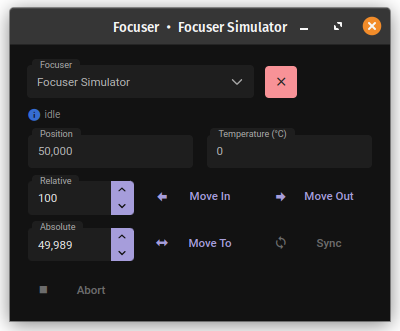
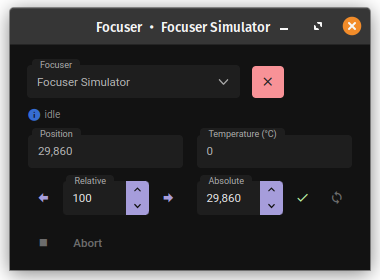
[desktop]: Change layout for Focuser and Filter Wheel

diff --git a/desktop/src/app/focuser/focuser.component.html b/desktop/src/app/focuser/focuser.component.html
@@ -32,34 +32,27 @@
                 <label>Temperature (°C)</label>
             </span>
         </div>
-        <div class="col-4">
+        <div class="col-6 flex align-items-center gap-1">
+            <p-button [disabled]="!canRelativeMove || moving" (onClick)="moveIn()" icon="mdi mdi-arrow-left-bold"
+                      styleClass="p-button-text" pTooltip="Move In" tooltipPosition="bottom" />
             <span class="p-float-label">
-                <p-inputNumber [disabled]="!canRelativeMove" [min]="0" [max]="maxPosition" [showButtons]="true" styleClass="border-0 max-w-full"
+                <p-inputNumber [disabled]="!canRelativeMove" [min]="0" [max]="maxPosition" [showButtons]="true" styleClass="border-0"
                                [(ngModel)]="stepsRelative" [allowEmpty]="false" locale="en" />
                 <label>Relative</label>
             </span>
+            <p-button [disabled]="!canRelativeMove || moving" (onClick)="moveOut()" icon="mdi mdi-arrow-right-bold"
+                      styleClass="p-button-text" pTooltip="Move Out" tooltipPosition="bottom" />
         </div>
-        <div class="col-4">
-            <p-button [disabled]="!canRelativeMove || moving" (onClick)="moveIn()" icon="mdi mdi-arrow-left-bold" label="Move In"
-                      styleClass="p-button-text w-full" />
-        </div>
-        <div class="col-4">
-            <p-button [disabled]="!canRelativeMove || moving" (onClick)="moveOut()" icon="mdi mdi-arrow-right-bold" label="Move Out"
-                      styleClass="p-button-text w-full" />
-        </div>
-        <div class="col-4">
+        <div class="col-6 flex align-items-center gap-1">
             <span class="p-float-label">
                 <p-inputNumber [disabled]="!canAbsoluteMove" [min]="0" [max]="maxPosition" [showButtons]="true" styleClass="border-0 max-w-full"
                                [(ngModel)]="stepsAbsolute" [allowEmpty]="false" locale="en" />
                 <label>Absolute</label>
             </span>
-        </div>
-        <div class="col-4">
-            <p-button [disabled]="!canAbsoluteMove || moving" (onClick)="moveTo()" icon="mdi mdi-arrow-left-right-bold" label="Move To"
-                      styleClass="p-button-text w-full" />
-        </div>
-        <div class="col-4">
-            <p-button [disabled]="!canSync || moving" (onClick)="syncTo()" icon="mdi mdi-sync" label="Sync" styleClass="p-button-text p-button-info w-full" />
+            <p-button [disabled]="!canAbsoluteMove || moving" (onClick)="moveTo()" icon="mdi mdi-check"
+                      styleClass="p-button-text p-button-success" pTooltip="Move To" tooltipPosition="bottom" />
+            <p-button [disabled]="!canSync || moving" (onClick)="syncTo()" icon="mdi mdi-sync"
+                      styleClass="p-button-text p-button-info" pTooltip="Sync" tooltipPosition="bottom" />
         </div>
         <div class="col-4">
             <p-button [disabled]="!canRelativeMove || !moving" icon="mdi mdi-stop" label="Abort" styleClass="p-button-text p-button-danger w-full" />

diff --git a/desktop/src/app/filterwheel/filterwheel.component.html b/desktop/src/app/filterwheel/filterwheel.component.html
@@ -19,13 +19,13 @@
         </div>
     </div>
     <div class="grid">
-        <div class="col-6">
+        <div class="col-3">
             <span class="p-float-label">
                 <p-inputNumber [readonly]="true" styleClass="border-0 w-full" [(ngModel)]="position" locale="en" />
                 <label>Position</label>
             </span>
         </div>
-        <div class="col-6">
+        <div class="col-9">
             <div class="p-inputgroup">
                 <span class="p-float-label">
                     <input pInputText [readonly]="true" class="border-0 w-full" [value]="filterNames[position - 1] || '-'" />
@@ -36,18 +36,18 @@
                 </span>
             </div>
         </div>
-        <div class="col-6">
+        <div class="col-7">
             <span class="p-float-label">
                 <p-dropdown [disabled]="!connected || filterNames.length === 0" [options]="filterNames" [(ngModel)]="filterToMove"
-                            (ngModelChange)="filterToMoveChanged()" styleClass="border-0" emptyMessage="No filter found" />
+                            (ngModelChange)="filterToMoveChanged()" styleClass="border-0" emptyMessage="No filter found" scrollHeight="120px" />
                 <label>Move To</label>
             </span>
         </div>
-        <div class="col-6 flex align-items-center justify-content-between gap-1">
+        <div class="col-5 flex align-items-center justify-content-between gap-1">
             <p-button [disabled]="!filterWheel || !connected || filterNames.length === 0 || moving || filterToMove === filterNames[position - 1]"
                       (onClick)="moveTo()" label="Move" icon="mdi mdi-arrow-right-bold" styleClass="p-button-text" />
             <p-button [disabled]="!filterWheel || !connected || moving || filterNames.length === 0" (onClick)="openFilterOptions()"
-                      icon="mdi mdi-cog" styleClass="p-button p-button-info p-button-text"
+                      icon="mdi mdi-tune-vertical-variant" styleClass="p-button-info p-button-text"
                       pTooltip="Options" tooltipPosition="bottom" />
         </div>
     </div>
@@ -64,7 +64,7 @@
         <div class="col-2">
             <p-button [disabled]="!filterToEdit[1]" icon="mdi mdi-check" (onClick)="applyFilterName()" styleClass="p-button-text p-button-success" />
         </div>
-        <div class="col-2 flex flex-column align-items-center justify-content-center gap-2">
+        <div class="col-12 flex flex-column align-items-center justify-content-center gap-2">
             <span class="text-sm text-gray-100">Shutter</span>
             <p-inputSwitch [(ngModel)]="useFilterWheelAsShutter" (ngModelChange)="shutterToggled()" />
         </div>

diff --git a/desktop/src/shared/services/browser-window.service.ts b/desktop/src/shared/services/browser-window.service.ts
@@ -27,7 +27,7 @@ export class BrowserWindowService {
         this.openWindow({
             ...options,
             id: 'focuser', path: 'focuser', icon: options.icon || 'focus',
-            width: options.width || 380, height: options.height || 276,
+            width: options.width || 360, height: options.height || 225,
         })
     }
 
@@ -35,7 +35,7 @@ export class BrowserWindowService {
         this.openWindow({
             ...options,
             id: 'filterWheel', path: 'filterWheel', icon: options.icon || 'filter-wheel',
-            width: options.width || 340, height: options.height || 204,
+            width: options.width || 320, height: options.height || 182,
         })
     }
 
